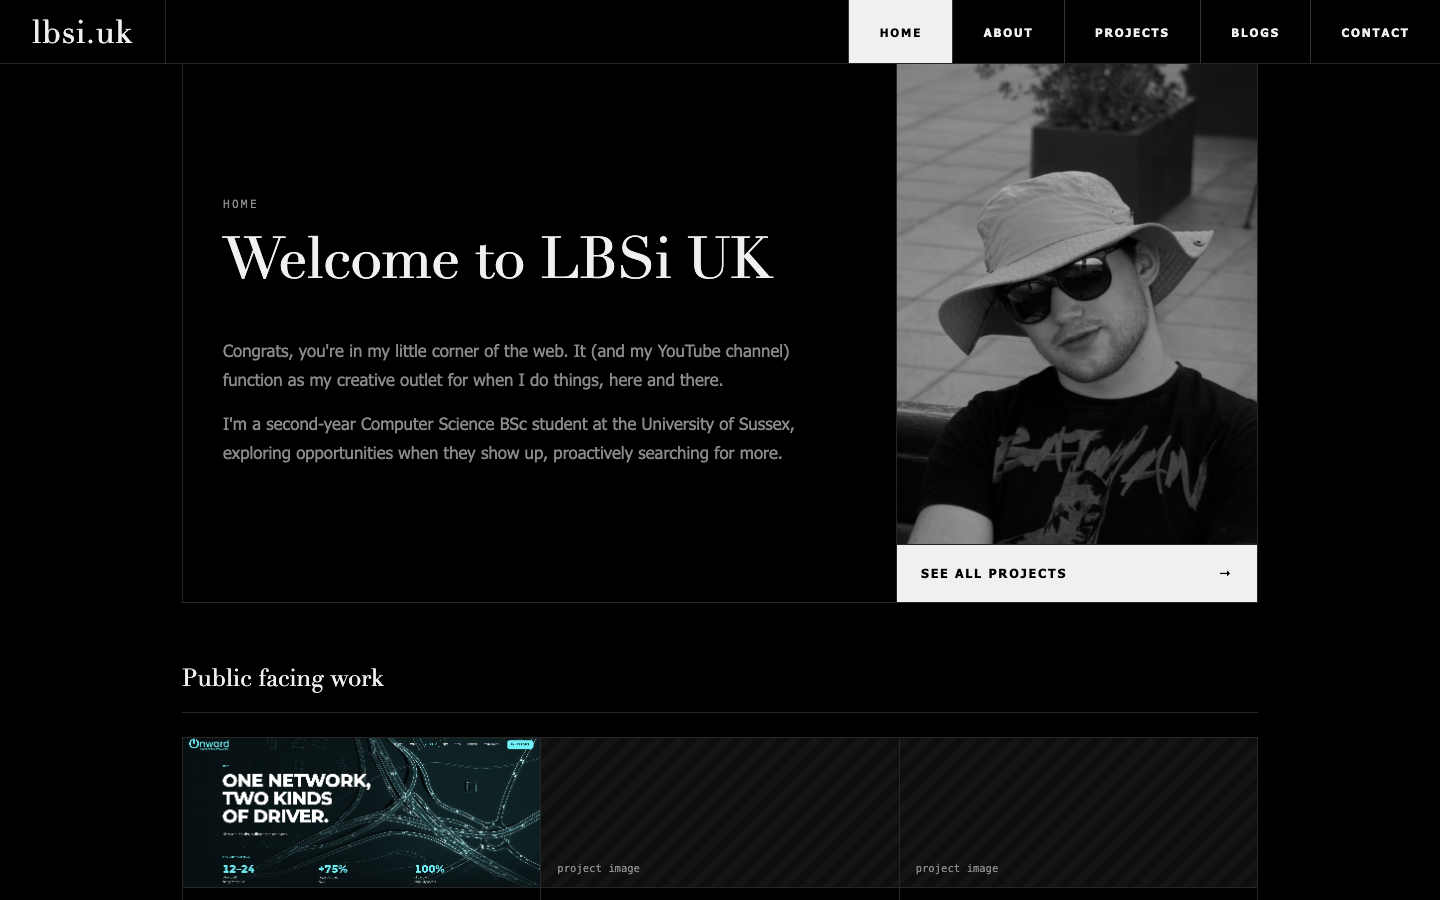
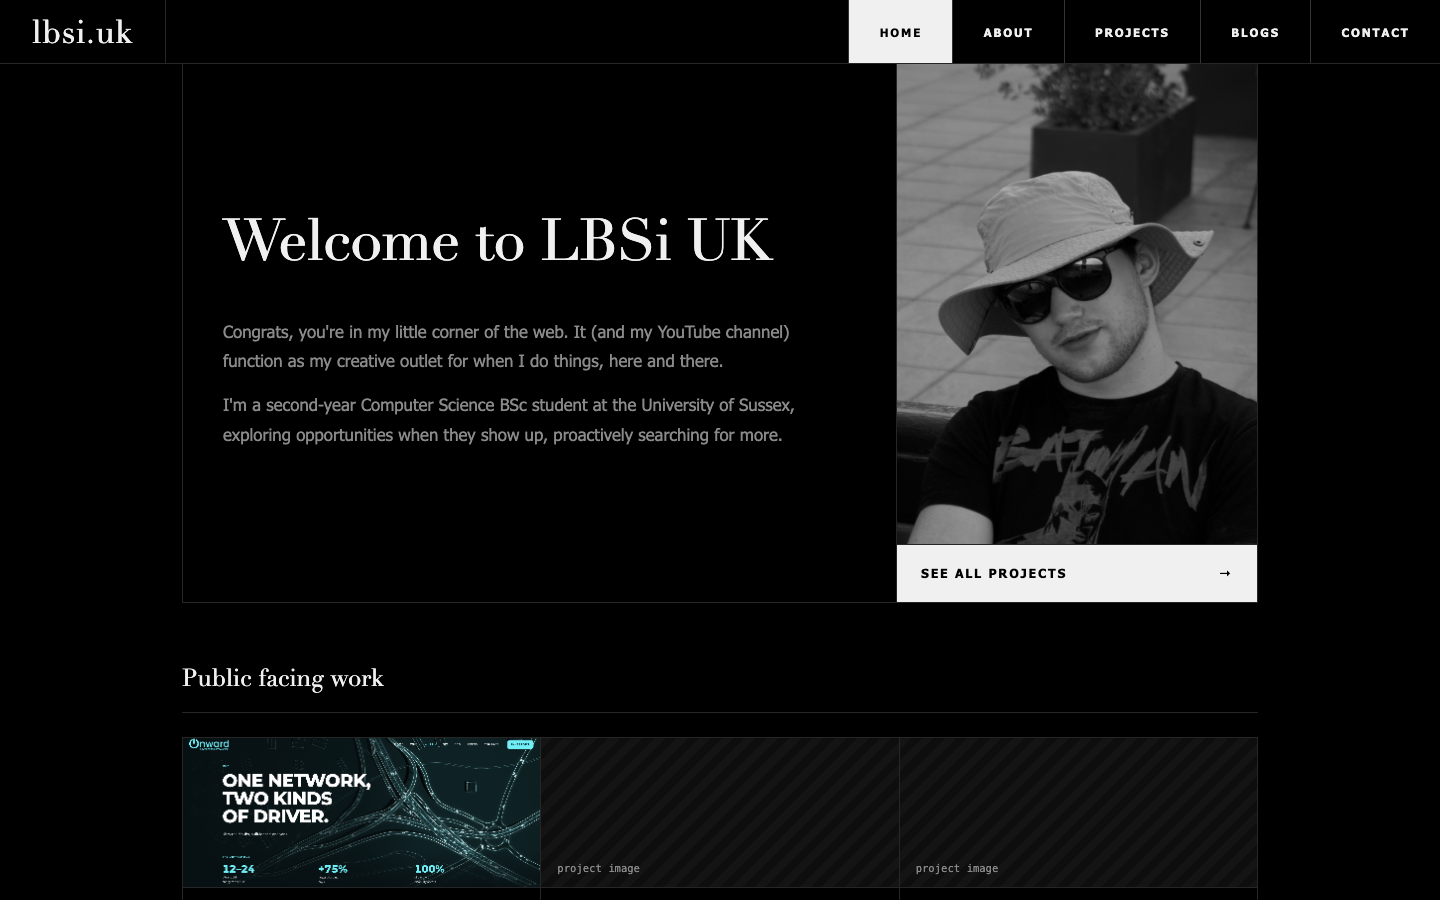
Remove small labels above hero headings on all pages

Changed region(s): [[0.1562, 0.3422, 0.5625, 0.5289], [0.1562, 0.2178, 0.5312, 0.3111]]

diff --git a/design/Portfolio.dc.html b/design/Portfolio.dc.html
@@ -37,7 +37,6 @@ a:hover { color: #ffffff; }
     <sc-if value="{{ isHome }}" hint-placeholder-val="{{ true }}">
       <section style="display: grid; grid-template-columns: minmax(0, 1fr) minmax(0, 360px); border: 1px solid #262626; border-top: 0;">
         <div style="padding: 4rem 2.5rem; border-right: 1px solid #262626; display: flex; flex-direction: column; justify-content: center;">
-          <p style="font-family: ui-monospace, Menlo, monospace; font-size: 0.7rem; letter-spacing: 0.2em; text-transform: uppercase; color: #8a8a8a; margin-bottom: 1.5rem;">Home</p>
           <h1 style="font-family: 'Roman', serif; font-size: clamp(2rem, 4.4vw, 3.6rem); line-height: 1.05; letter-spacing: -0.01em; font-weight: normal; margin-bottom: 2.5rem;">Welcome to LBSi UK</h1>
           <p style="font-size: 1.05rem; color: #8a8a8a; max-width: 600px; line-height: 1.75; margin-bottom: 0.9rem; text-wrap: pretty;">Congrats, you're in my little corner of the web. It (and my YouTube channel) function as my creative outlet for when I do things, here and there.</p>
           <p style="font-size: 1.05rem; color: #8a8a8a; max-width: 600px; line-height: 1.75; text-wrap: pretty;">I'm a second-year Computer Science BSc student at the University of Sussex, exploring opportunities when they show up, proactively searching for more.</p>
@@ -76,7 +75,6 @@ a:hover { color: #ffffff; }
 
     <sc-if value="{{ isAbout }}" hint-placeholder-val="{{ false }}">
       <section style="padding: 4rem 0 5rem;">
-        <p style="font-family: ui-monospace, Menlo, monospace; font-size: 0.7rem; letter-spacing: 0.2em; text-transform: uppercase; color: #8a8a8a; margin-bottom: 0.8rem;">About</p>
         <h2 style="font-family: 'Roman', serif; font-weight: normal; font-size: clamp(2.2rem, 5vw, 3.8rem); line-height: 1.08; padding-bottom: 2rem; border-bottom: 1px solid #262626;">Hey, I'm Leon</h2>
         <div style="display: grid; grid-template-columns: minmax(0, 1fr) minmax(0, 360px); border-left: 1px solid #262626; border-right: 1px solid #262626; border-bottom: 1px solid #262626;">
           <div style="padding: 2.5rem; display: flex; flex-direction: column; gap: 1.1rem; border-right: 1px solid #262626;">
@@ -98,7 +96,6 @@ a:hover { color: #ffffff; }
 
     <sc-if value="{{ isProjects }}" hint-placeholder-val="{{ false }}">
       <section style="padding: 4rem 0 5rem;">
-        <p style="font-family: ui-monospace, Menlo, monospace; font-size: 0.7rem; letter-spacing: 0.2em; text-transform: uppercase; color: #8a8a8a; margin-bottom: 0.8rem;">Work</p>
         <h2 style="font-family: 'Roman', serif; font-weight: normal; font-size: clamp(2.2rem, 5vw, 3.8rem); line-height: 1.08; padding-bottom: 2rem; margin-bottom: 1.5rem; border-bottom: 1px solid #262626;">Projects</h2>
         <div style="display: grid; grid-template-columns: repeat(auto-fill, minmax(300px, 1fr)); border-left: 1px solid #262626; border-top: 1px solid #262626;">
           <sc-for list="{{ projects }}" as="p" hint-placeholder-count="5">
@@ -126,7 +123,6 @@ a:hover { color: #ffffff; }
 
     <sc-if value="{{ isBlog }}" hint-placeholder-val="{{ false }}">
       <section style="padding: 4rem 0 5rem;">
-        <p style="font-family: ui-monospace, Menlo, monospace; font-size: 0.7rem; letter-spacing: 0.2em; text-transform: uppercase; color: #8a8a8a; margin-bottom: 0.8rem;">Writing</p>
         <h2 style="font-family: 'Roman', serif; font-weight: normal; font-size: clamp(2.2rem, 5vw, 3.8rem); line-height: 1.08; padding-bottom: 2rem; border-bottom: 1px solid #262626;">Blogs</h2>
         <sc-if value="{{ blogIndex }}" hint-placeholder-val="{{ true }}">
           <div style="display: flex; flex-direction: column; border-left: 1px solid #262626; border-right: 1px solid #262626;">
@@ -170,7 +166,6 @@ a:hover { color: #ffffff; }
 
     <sc-if value="{{ isContact }}" hint-placeholder-val="{{ false }}">
       <section style="padding: 4rem 0 5rem;">
-        <p style="font-family: ui-monospace, Menlo, monospace; font-size: 0.7rem; letter-spacing: 0.2em; text-transform: uppercase; color: #8a8a8a; margin-bottom: 0.8rem;">Say hello</p>
         <h2 style="font-family: 'Roman', serif; font-weight: normal; font-size: clamp(2.2rem, 5vw, 3.8rem); line-height: 1.08; padding-bottom: 2rem; border-bottom: 1px solid #262626;">Get In Touch</h2>
         <div style="display: grid; grid-template-columns: minmax(0, 1fr) minmax(0, 1.4fr); border-left: 1px solid #262626; border-right: 1px solid #262626; border-bottom: 1px solid #262626;">
           <div style="padding: 2.5rem; border-right: 1px solid #262626; display: flex; flex-direction: column; justify-content: space-between; gap: 2rem;">

diff --git a/HANDOFF.md b/HANDOFF.md
@@ -31,14 +31,13 @@ Personal portfolio for Leon Brahams (LBSi UK). Five views: Home, About, Projects
 Black, `border-top: 1px solid #262626`, flex space-between. Left (one line): "© Leon Brahams / LBSi UK 2023–2026. Images © Leon Brahams / LBSi UK unless stated otherwise." Right: "NW London" with `border-left: 1px solid #262626`. Both 0.78rem `#8a8a8a`, padding `1.4rem 2rem`, letter-spacing 0.05em.
 
 ### Section header pattern (About / Projects / Blogs / Contact)
-- Small mono label (0.7rem, letter-spacing 0.2em, uppercase, `#8a8a8a`): "About", "Work", "Writing", "Say hello".
 - H2 in Roman, `clamp(2.2rem, 5vw, 3.8rem)`, line-height 1.08, padding-bottom 2rem, bottom border.
 - Section padding `4rem 0 5rem`.
 
 ## Screens
 ### Home
 1. Hero: 2-col grid `minmax(0,1fr) minmax(0,360px)`, border on left/right/bottom.
-   - Left (padding `4rem 2.5rem`, vertically centred, right border): mono label "Home", H1 "Welcome to LBSi UK" (Roman, `clamp(2rem,4.4vw,3.6rem)`, lh 1.05), two paragraphs (1.05rem, `#8a8a8a`, lh 1.75, max-width 600px).
+   - Left (padding `4rem 2.5rem`, vertically centred, right border): H1 "Welcome to LBSi UK" (Roman, `clamp(2rem,4.4vw,3.6rem)`, lh 1.05), two paragraphs (1.05rem, `#8a8a8a`, lh 1.75, max-width 600px).
    - Right: `images/hero.png` at **3:4 aspect**, `object-fit: cover`, `grayscale(1)`; below it a full-width "SEE ALL PROJECTS →" button (`#f0f0f0` bg, black text, 0.78rem 600, letter-spacing 0.14em, padding `1.3rem 1.5rem`) → Projects.
 2. "Public facing work": H2 Roman 1.5rem with bottom border; grid `repeat(auto-fill, minmax(280px,1fr))`, gap 0, cells share borders (grid has left+top border, each card right+bottom).
    Card: image area 150px (bg image cover, left-center for Onward; hatched placeholder when none) → body padding 1.5rem (Roman 1.2rem title, 0.875rem `#8a8a8a` desc, tags) → sweep link row "VIEW PROJECT →".
